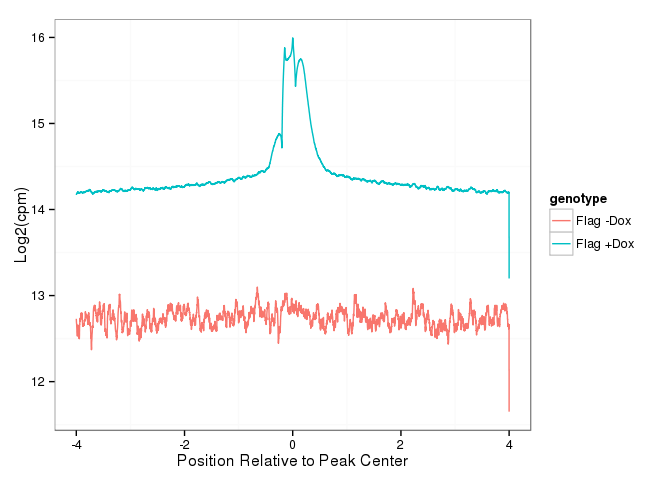
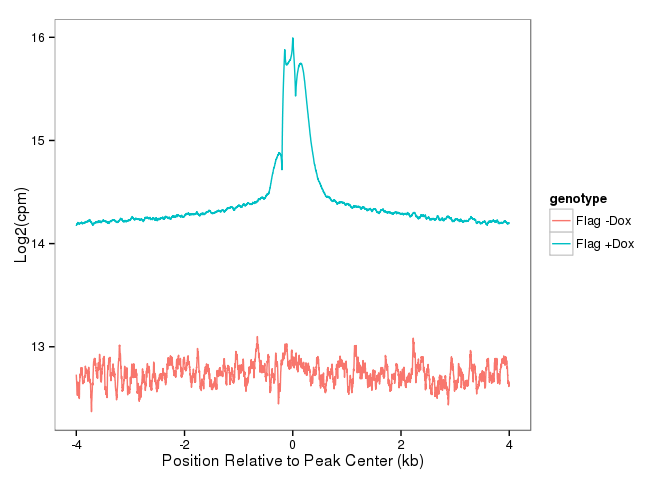
remove end effect in twister plots

diff --git a/README.md b/README.md
@@ -619,20 +619,8 @@ temp<-temp[with(temp,order(-score))]
 ```
 
 ``` r
-benchplot(tornado(temp,dataset=h3k27,pad = 3500,ord=0,window=5,color="red2"))
-```
-
-![](README_files/figure-markdown_github/Tornado_Plots_2-1.png)
-
-    ##        step user.self sys.self  elapsed
-    ## 1 construct   703.405   13.448  726.604
-    ## 2     build   141.834    0.182  142.071
-    ## 3    render    21.996    0.000   22.005
-    ## 4      draw   133.645    0.000  133.693
-    ## 5     TOTAL  1000.880   13.630 1024.373
-
-``` r
-#benchplot(tornado(temp,dataset=p300,pad = 3500,ord=0,window=5,color="red2"))
+#benchplot(tornado(temp,dataset=h3k27,pad = 3500,ord=0,window=5,color="red2"))
+##benchplot(tornado(temp,dataset=p300,pad = 3500,ord=0,window=5,color="red2"))
 ```
 
 ``` r
@@ -642,11 +630,11 @@ benchplot(twister(temp,dataset=H3,pad = 3500,ord=0,window=1,color="darkgreen"))
 ![](README_files/figure-markdown_github/Tornado_Plots_3-1.png)
 
     ##        step user.self sys.self  elapsed
-    ## 1 construct  1090.535   19.872 1252.731
-    ## 2     build     0.052    0.000    0.052
-    ## 3    render     0.108    0.000    0.108
-    ## 4      draw     0.067    0.000    0.067
-    ## 5     TOTAL  1090.762   19.872 1252.958
+    ## 1 construct  1155.813   72.198 1361.825
+    ## 2     build     0.053    0.000    0.053
+    ## 3    render     0.108    0.000    0.109
+    ## 4      draw     0.068    0.000    0.067
+    ## 5     TOTAL  1156.042   72.198 1362.054
 
 ``` r
 length(temp2<-dux4dox_1k[dux4dox_1k$dnase_overlap==FALSE ])
@@ -660,17 +648,8 @@ length(temp2<-dux4dox_1k[dux4dox_1k$dnase_overlap==FALSE ])
 temp2<-temp2[with(temp2,order(-score))]
 #benchplot(tornado(temp2,dataset=DUX4,pad = 3500,ord=0,window=5,color="blue"))
 #benchplot(tornado(temp2,dataset=h3k4,pad = 3500,ord=0,window=5,color="darkorange4"))
-benchplot(tornado(temp2,dataset=h3k27,pad = 3500,ord=0,window=5,color="red2"))
+#benchplot(tornado(temp2,dataset=h3k27,pad = 3500,ord=0,window=5,color="red2"))
 ```
-
-![](README_files/figure-markdown_github/Tornado_Plots_4-1.png)
-
-    ##        step user.self sys.self elapsed
-    ## 1 construct   537.147    1.420 540.956
-    ## 2     build   124.349    0.297 124.697
-    ## 3    render    19.791    0.076  19.876
-    ## 4      draw   117.018    0.243 117.308
-    ## 5     TOTAL   798.305    2.036 802.837
 
 ``` r
 #benchplot(tornado(temp2,dataset=h3k27,pad = 3500,ord=0,window=5,color="red2"))
@@ -681,11 +660,11 @@ benchplot(twister(temp,dataset=DUX4,pad = 3500,ord=0,window=1,color="darkgreen")
 ![](README_files/figure-markdown_github/Tornado_Plots_5-1.png)
 
     ##        step user.self sys.self elapsed
-    ## 1 construct   387.934    2.954 421.053
-    ## 2     build     0.049    0.000   0.049
-    ## 3    render     0.106    0.000   0.106
-    ## 4      draw     0.065    0.000   0.065
-    ## 5     TOTAL   388.154    2.954 421.273
+    ## 1 construct   367.622      2.7 401.109
+    ## 2     build     0.050      0.0   0.050
+    ## 3    render     0.101      0.0   0.102
+    ## 4      draw     0.065      0.0   0.064
+    ## 5     TOTAL   367.838      2.7 401.325
 
 ``` r
 benchplot(twister(temp2,dataset=DUX4,pad = 3500,ord=0,window=1,color="darkgreen"))
@@ -694,24 +673,24 @@ benchplot(twister(temp2,dataset=DUX4,pad = 3500,ord=0,window=1,color="darkgreen"
 ![](README_files/figure-markdown_github/Tornado_Plots_6-1.png)
 
     ##        step user.self sys.self elapsed
-    ## 1 construct   552.123    2.402 560.901
-    ## 2     build     0.050    0.001   0.051
-    ## 3    render     0.103    0.001   0.104
-    ## 4      draw     0.063    0.002   0.065
-    ## 5     TOTAL   552.339    2.406 561.121
+    ## 1 construct   577.277    2.536 590.314
+    ## 2     build     0.052    0.000   0.052
+    ## 3    render     0.104    0.001   0.105
+    ## 4      draw     0.064    0.000   0.064
+    ## 5     TOTAL   577.497    2.537 590.535
 
 ``` r
-benchplot(twister(temp2,dataset=H3,pad = 3500,ord=0,window=5,color="blue"))
+benchplot(twister(temp2,dataset=H3,pad = 3500,ord=0,window=1,color="blue"))
 ```
 
 ![](README_files/figure-markdown_github/Tornado_Plots_7-1.png)
 
     ##        step user.self sys.self  elapsed
-    ## 1 construct  1485.872   14.163 1559.973
-    ## 2     build     0.037    0.000    0.037
-    ## 3    render     0.087    0.000    0.087
-    ## 4      draw     0.160    0.000    0.160
-    ## 5     TOTAL  1486.156   14.163 1560.257
+    ## 1 construct  1529.370   45.023 1691.613
+    ## 2     build     0.052    0.000    0.053
+    ## 3    render     0.106    0.000    0.106
+    ## 4      draw     0.066    0.000    0.066
+    ## 5     TOTAL  1529.594   45.023 1691.838
 
 ``` r
 load("h3k27_counts.rdata")
